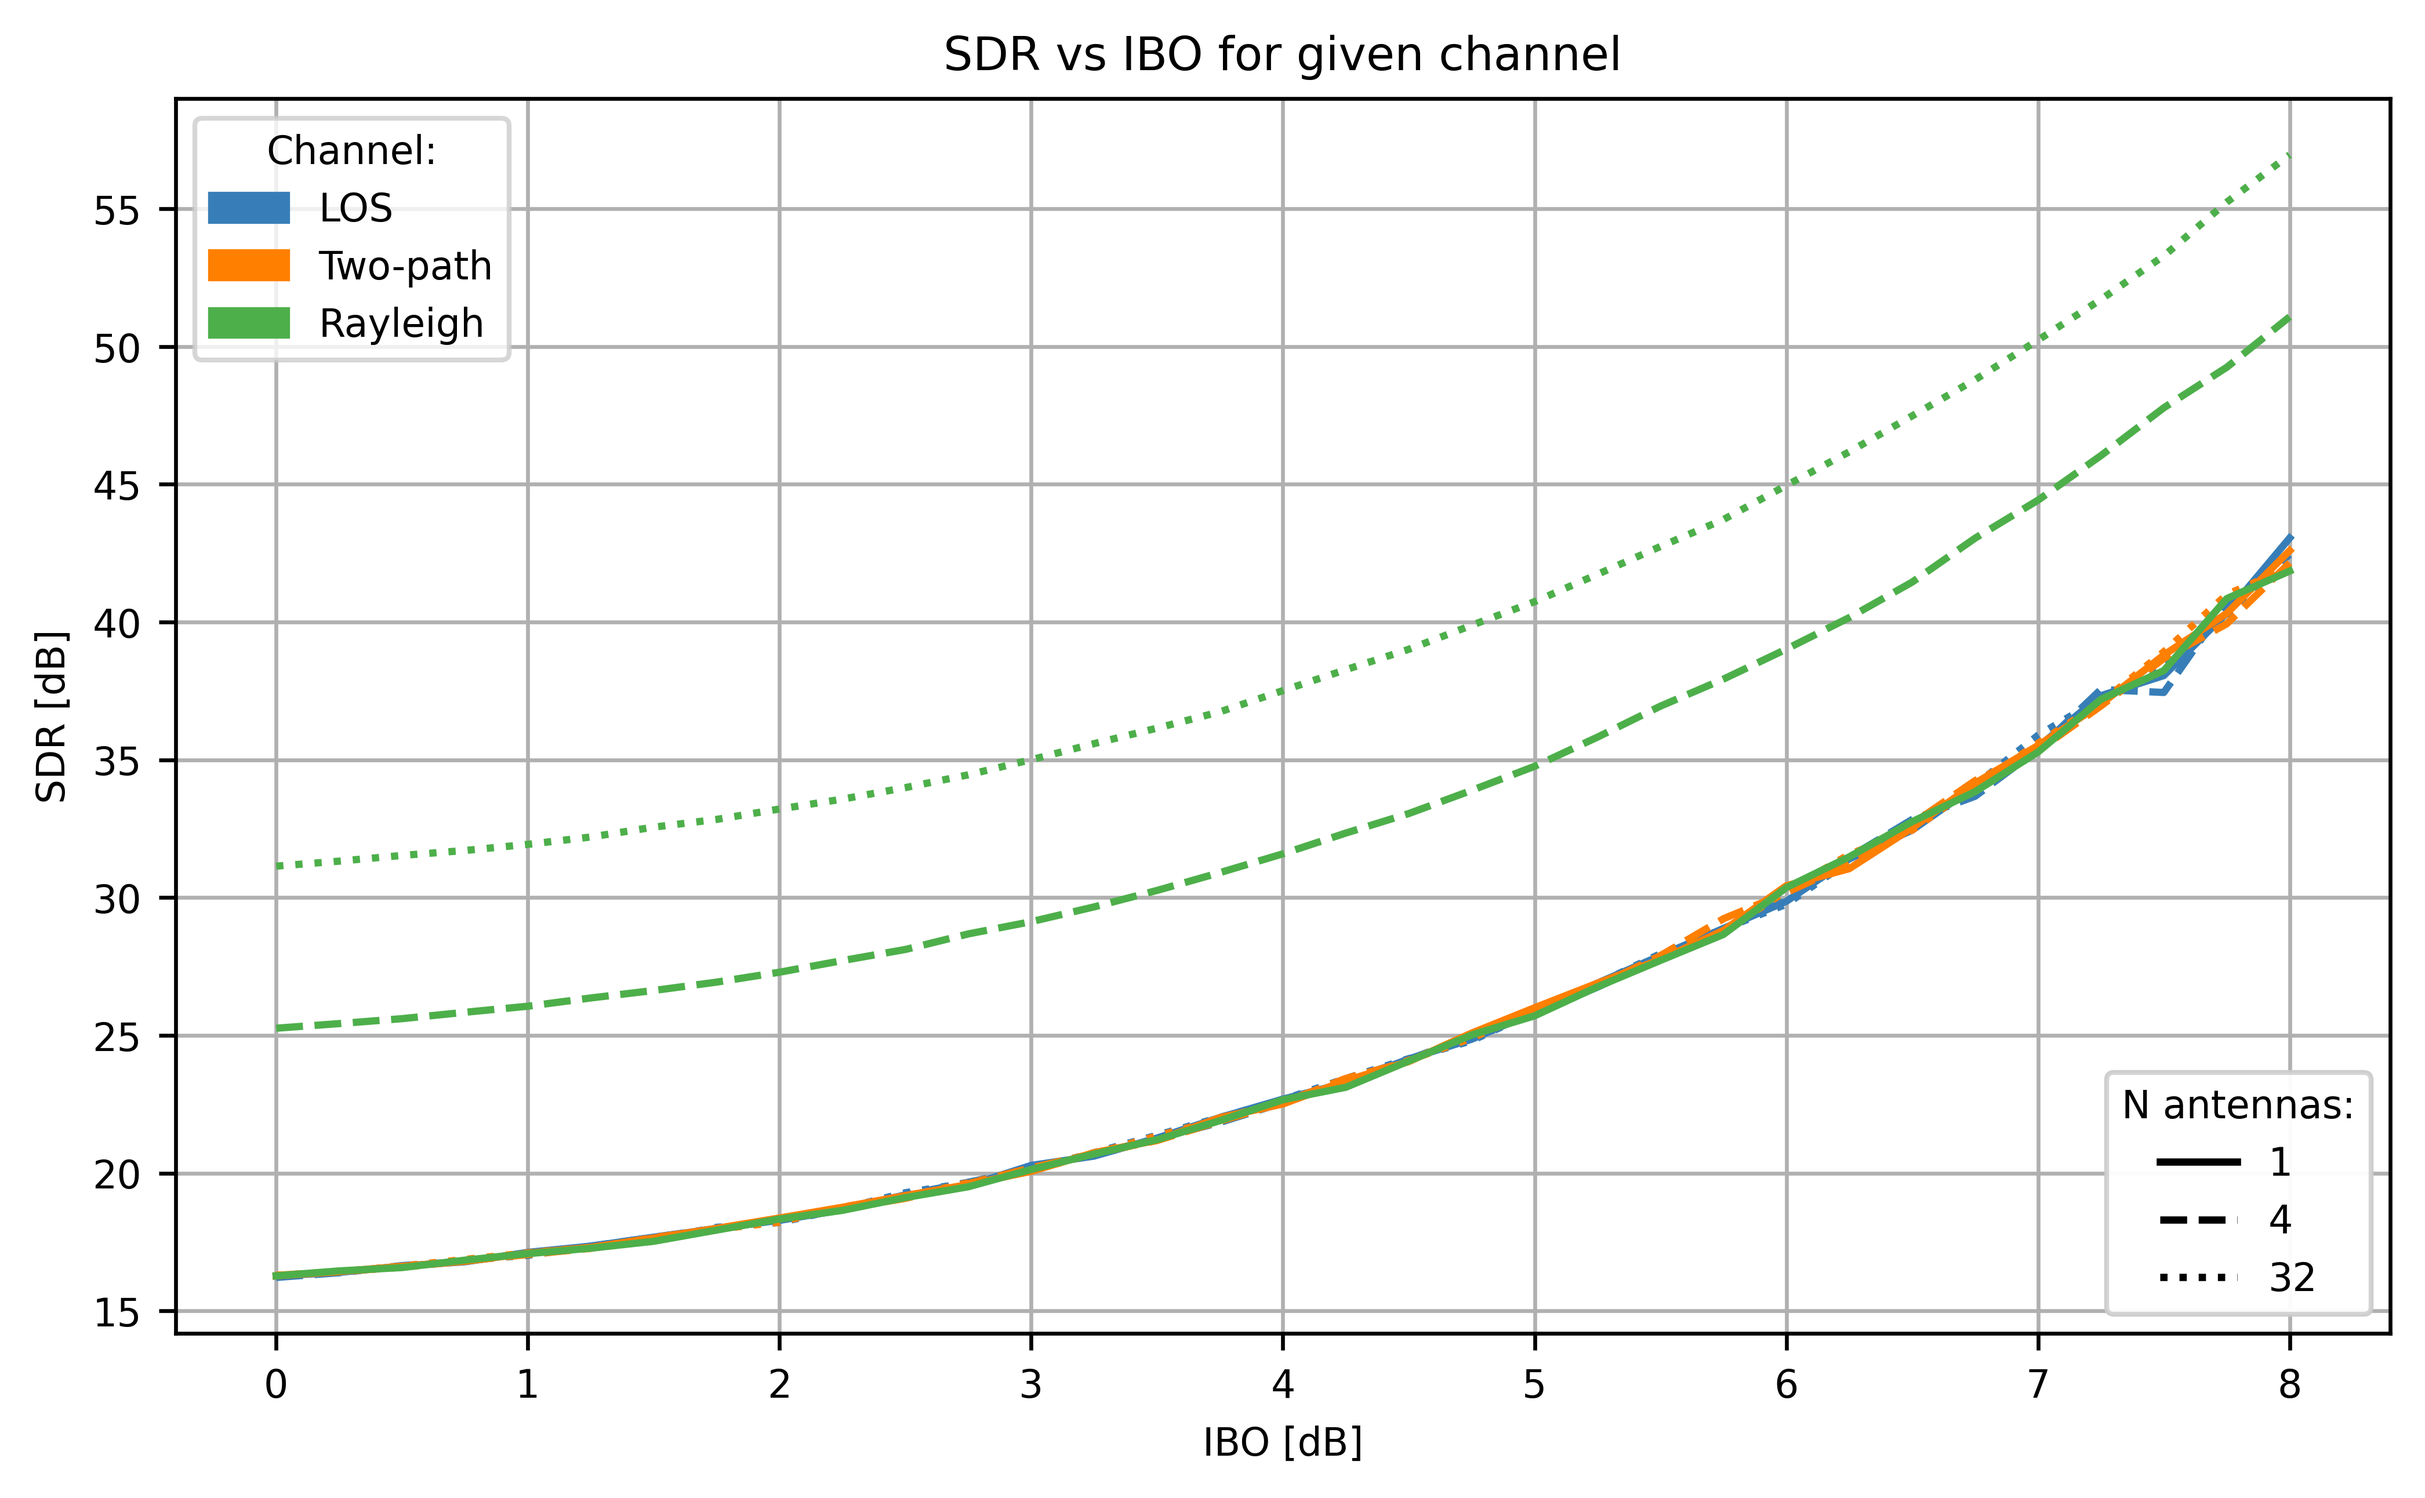
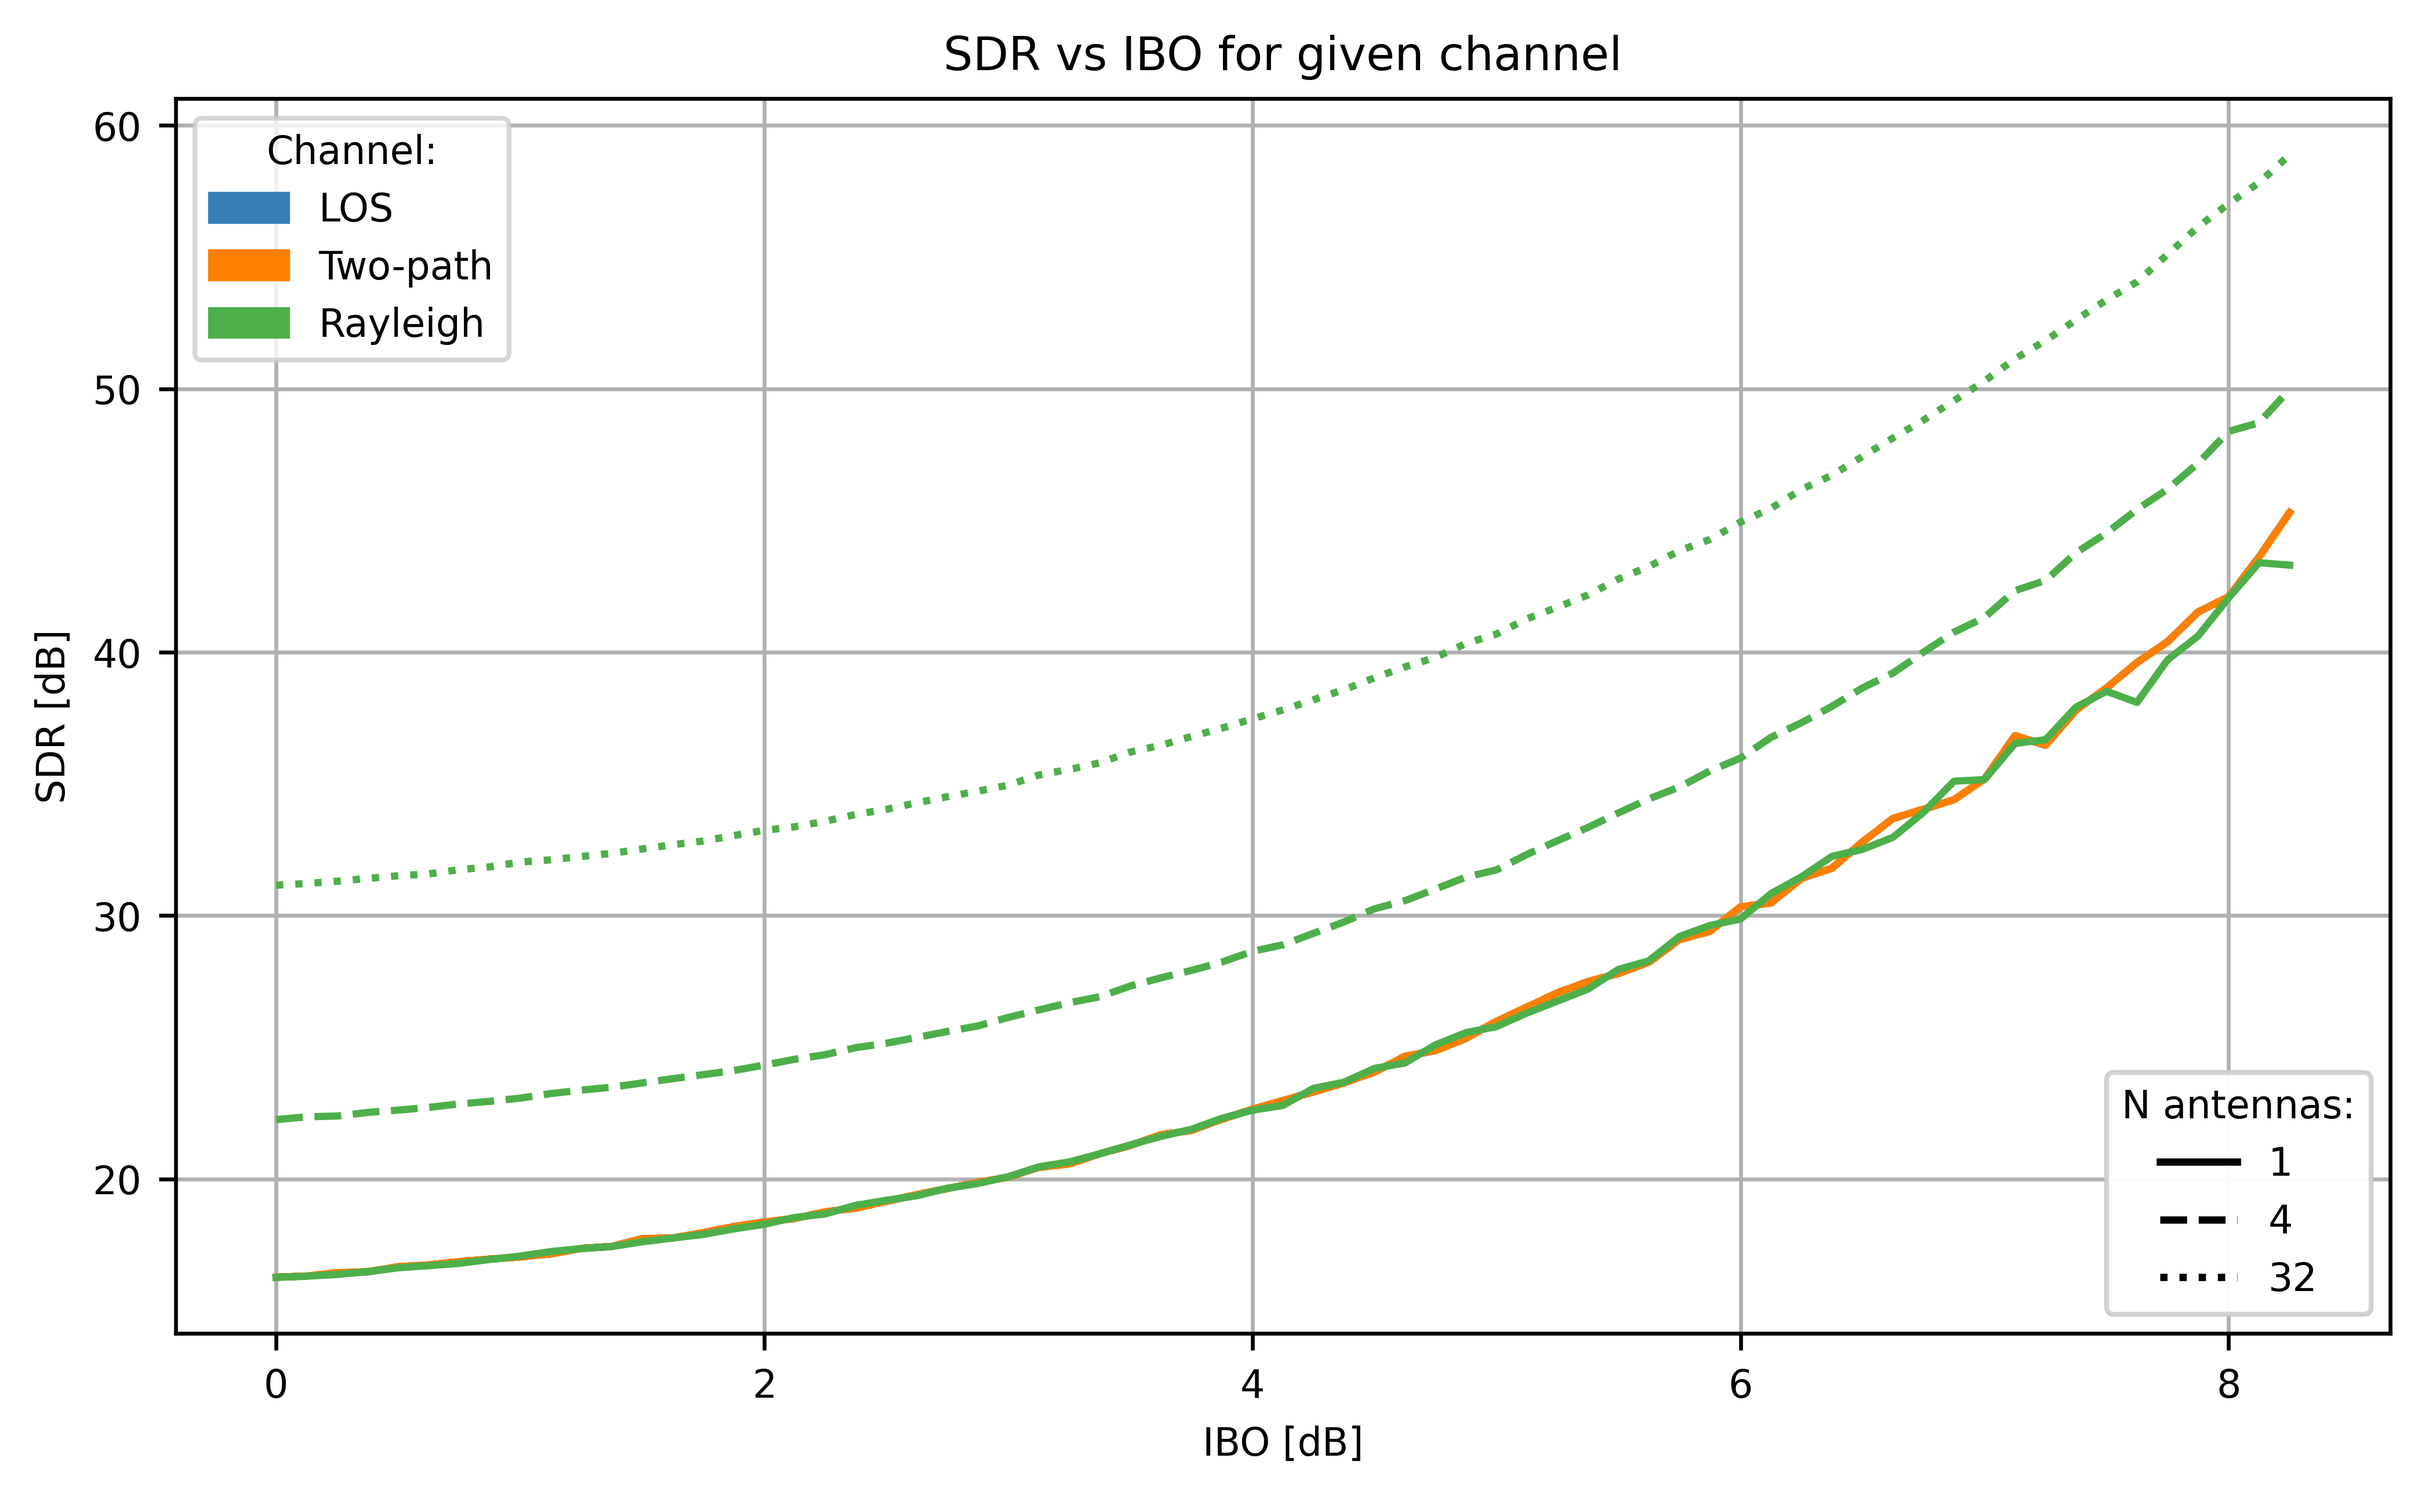
batch results update

diff --git a/main_beampatterns_plotting/main_sdr_vs_ibo_vs_channel.py b/main_beampatterns_plotting/main_sdr_vs_ibo_vs_channel.py
@@ -25,12 +25,11 @@ from utilities import to_db
 set_latex_plot_style()
 # %%
 print("Multi antenna processing init!")
-bit_rng = np.random.default_rng(4321)
 
-ibo_arr = np.arange(0, 8.25, 4)
+ibo_arr = np.arange(0, 8.251, 0.125)
 print("IBO values:", ibo_arr)
 
-n_ant_arr = [1, 2, 3]
+n_ant_arr = [1, 4, 32]
 print("N ANT values:", n_ant_arr)
 
 my_mod = modulation.OfdmQamModem(constel_size=64, n_fft=4096, n_sub_carr=1024, cp_len=128)
@@ -74,6 +73,7 @@ for n_ant_idx, n_ant_val in enumerate(n_ant_arr):
     chan_lst = [my_miso_two_path_chan, my_miso_los_chan, my_miso_rayleigh_chan]
 
     for chan_idx, chan_obj in enumerate(chan_lst):
+        bit_rng = np.random.default_rng(4321)
         start_time = time.time()
         print("--- Start time: %s ---" % datetime.now().strftime('%Y-%m-%d %H:%M:%S'))
         my_miso_chan = chan_obj
